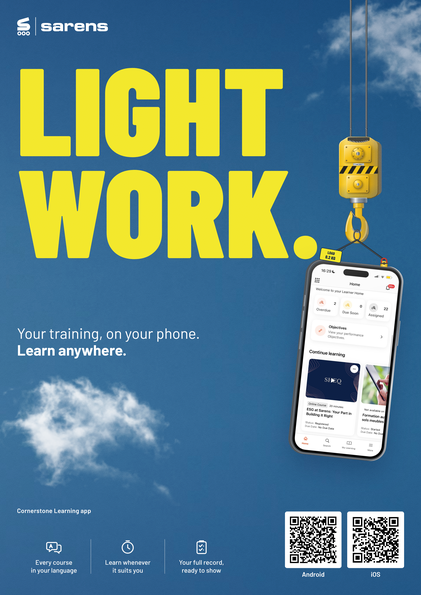
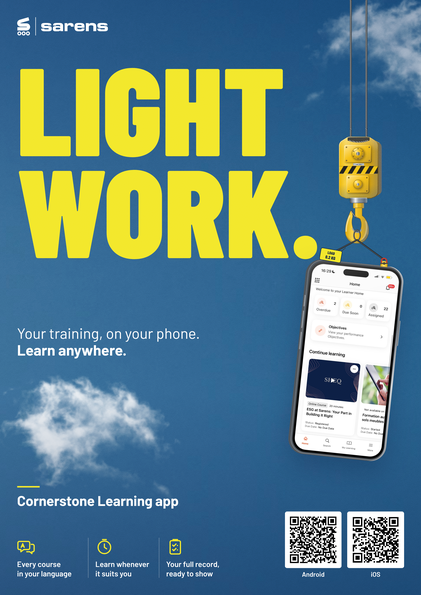
Light work (no band): stronger info block
App name as a heading with a yellow rule, yellow icons, larger app
points, darker bottom sky for contrast.

Claude-Session: https://claude.ai/code/session_01X2Rbh1qXJbUgouSSLpvcgM

Changed region(s): [[0.0309, 0.8168, 0.4323, 0.8773], [0.2162, 0.9076, 0.5249, 0.9681], [0.0309, 0.9076, 0.1853, 0.9681]]

diff --git a/poster-round2/E1c-light-work-noband.html b/poster-round2/E1c-light-work-noband.html
@@ -19,7 +19,7 @@ const COPY = {
   logo:     "Sarens logo"
 };
 /* ===== LAYOUT (mm). Change positions here, not in the code. ===== */
-const L = {"sky": {"top": "#1a5796", "mid": "#4886bf", "bottom": "#a7c9e5", "clouds": [[55, 352, 150, 11], [268, 336, 110, 12], [296, 170, 52, 13], [160, 372, 96, 14]]}, "headStyle": {"left": "15mm", "top": "42mm", "width": "225mm", "fontSize": "88mm", "color": "#F3E72A"}, "payoffStyle": {"left": "15mm", "top": "232mm", "width": "175mm", "color": "#fff"}, "logoStyle": {"left": "15mm", "right": "auto", "color": "#fff"}, "rope": {"x": 256}, "hook": {"top": 94, "w": 40}, "phone": {"w": 68, "h": 138, "rot": 6, "drop": 22}, "skyImg": {"src": "img/sky-wisp.jpg", "size": "820mm auto", "pos": "50% 0%", "filter": "hue-rotate(14deg) saturate(1.18) brightness(1.04) contrast(1.05)", "fade": "linear-gradient(180deg,rgba(8,40,90,.30) 0%,rgba(8,40,90,0) 38%,rgba(8,40,90,0) 70%,rgba(8,40,90,.28) 100%)", "extra": [{"src": "img/cloud-wisp.png", "x": 212, "y": -10, "w": 150, "flip": true, "rot": -6, "opacity": 0.82}, {"src": "img/cloud-wisp.png", "x": -14, "y": 258, "w": 150, "flip": false, "rot": 3, "opacity": 0.95}]}, "logoImg": "img/sarens-logo-white.png", "band": "noscan open"};
+const L = {"sky": {"top": "#1a5796", "mid": "#4886bf", "bottom": "#a7c9e5", "clouds": [[55, 352, 150, 11], [268, 336, 110, 12], [296, 170, 52, 13], [160, 372, 96, 14]]}, "headStyle": {"left": "15mm", "top": "42mm", "width": "225mm", "fontSize": "88mm", "color": "#F3E72A"}, "payoffStyle": {"left": "15mm", "top": "232mm", "width": "175mm", "color": "#fff"}, "logoStyle": {"left": "15mm", "right": "auto", "color": "#fff"}, "rope": {"x": 256}, "hook": {"top": 94, "w": 40}, "phone": {"w": 68, "h": 138, "rot": 6, "drop": 22}, "skyImg": {"src": "img/sky-wisp.jpg", "size": "820mm auto", "pos": "50% 0%", "filter": "hue-rotate(14deg) saturate(1.18) brightness(1.04) contrast(1.05)", "fade": "linear-gradient(180deg,rgba(8,40,90,.30) 0%,rgba(8,40,90,0) 38%,rgba(8,40,90,0) 66%,rgba(6,30,70,.42) 100%)", "extra": [{"src": "img/cloud-wisp.png", "x": 212, "y": -10, "w": 150, "flip": true, "rot": -6, "opacity": 0.82}, {"src": "img/cloud-wisp.png", "x": -14, "y": 258, "w": 150, "flip": false, "rot": 3, "opacity": 0.95}]}, "logoImg": "img/sarens-logo-white.png", "band": "noscan open strong"};
 </script>
 </head>
 <body><div class="poster"></div>

diff --git a/poster-round2/base.css b/poster-round2/base.css
@@ -77,3 +77,16 @@ html,body{width:303mm;height:426mm;background:#777}
 .band.open .appname,.band.open .specs,.band.open .qrs{color:#fff}
 .band.open .spec+.spec{border-left-color:rgba(255,255,255,.55)}
 .band.open .qrs img{box-shadow:none}
+
+/* open + strong: info stands out by type and colour, no panel */
+.band.strong{height:84mm}
+.band.strong .appname{top:4mm;font:700 10mm/1 "Barlow";letter-spacing:-.005em;color:#fff}
+.band.strong .appname::before{content:"";display:block;width:16mm;height:1.2mm;background:var(--yellow);margin-bottom:4.2mm}
+.band.strong .specs{bottom:var(--safe);left:calc(var(--safe) - 3mm)}
+.band.strong .spec{width:50mm;align-items:flex-start;text-align:left;gap:3mm;padding:0 3mm}
+.band.strong .spec+.spec{border-left:.35mm solid rgba(255,255,255,.4);padding-left:5mm}
+.band.strong .spec svg{width:12.5mm;height:12.5mm;stroke:var(--yellow);stroke-width:1.6}
+.band.strong .spec span{font:600 5.4mm/1.2 "Barlow";color:#fff}
+.band.strong .qrs figcaption{color:#fff;font-weight:600}
+.band.strong .specs{left:var(--safe)}
+.band.strong .spec:first-child{padding-left:0}
